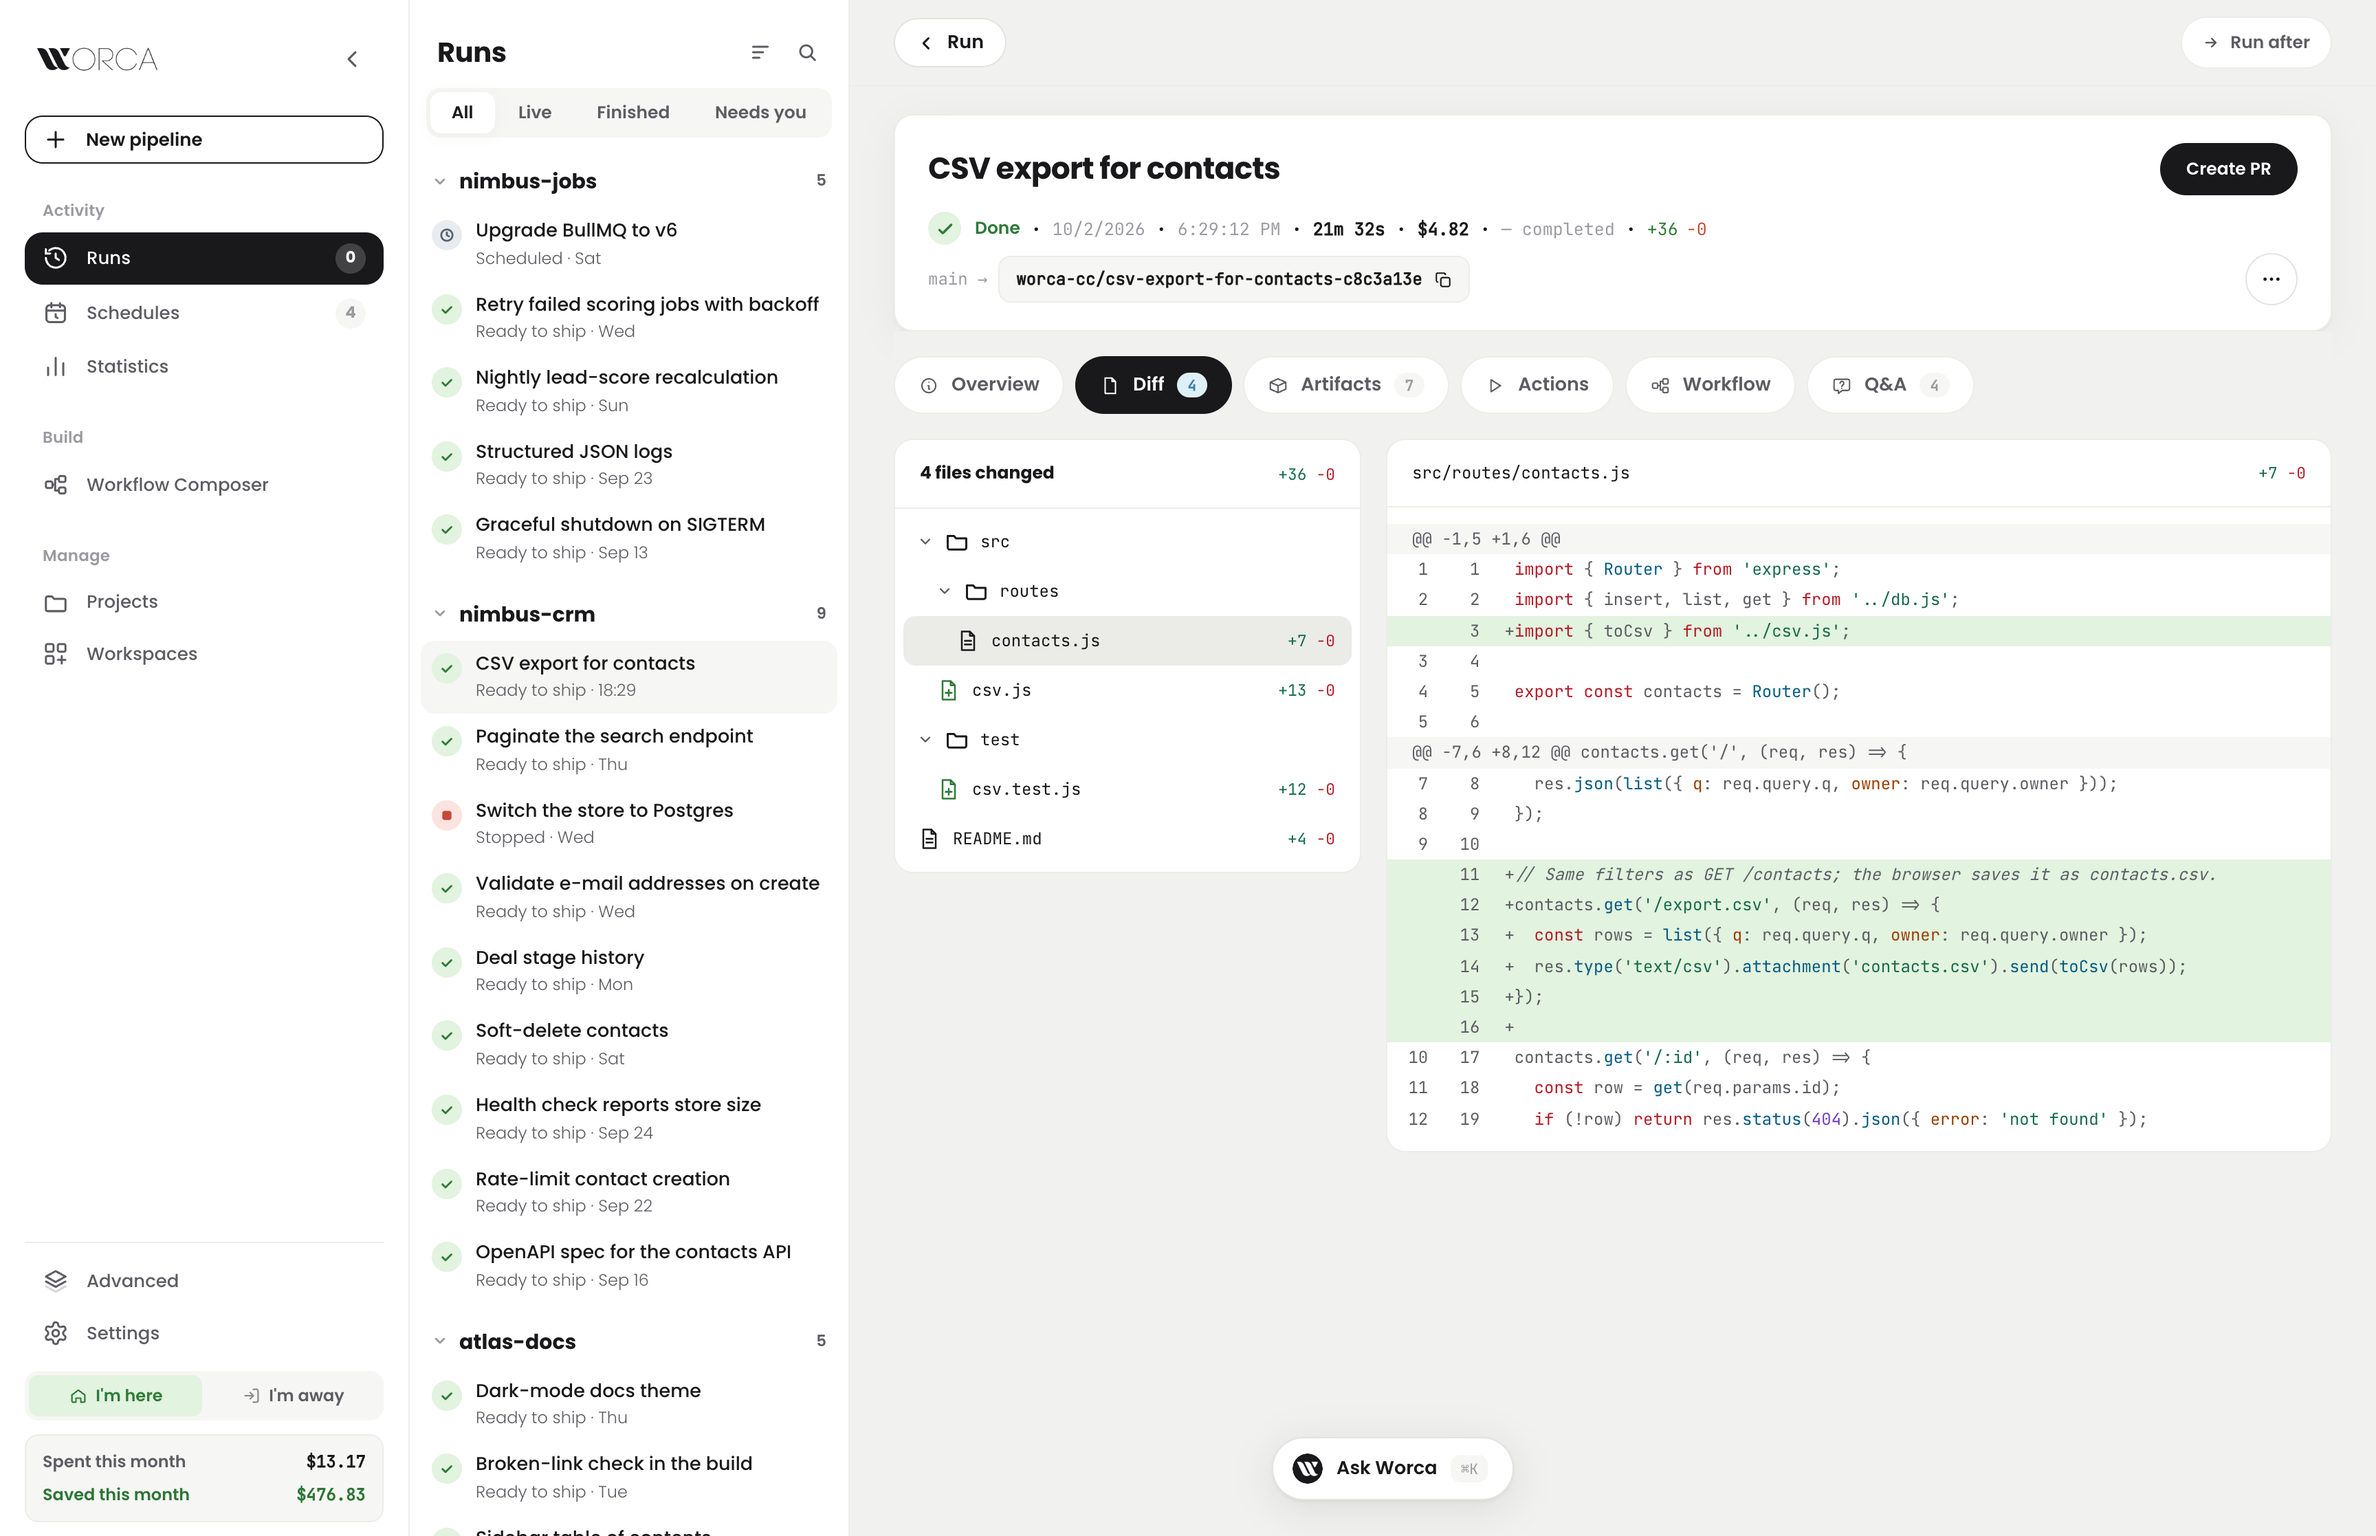
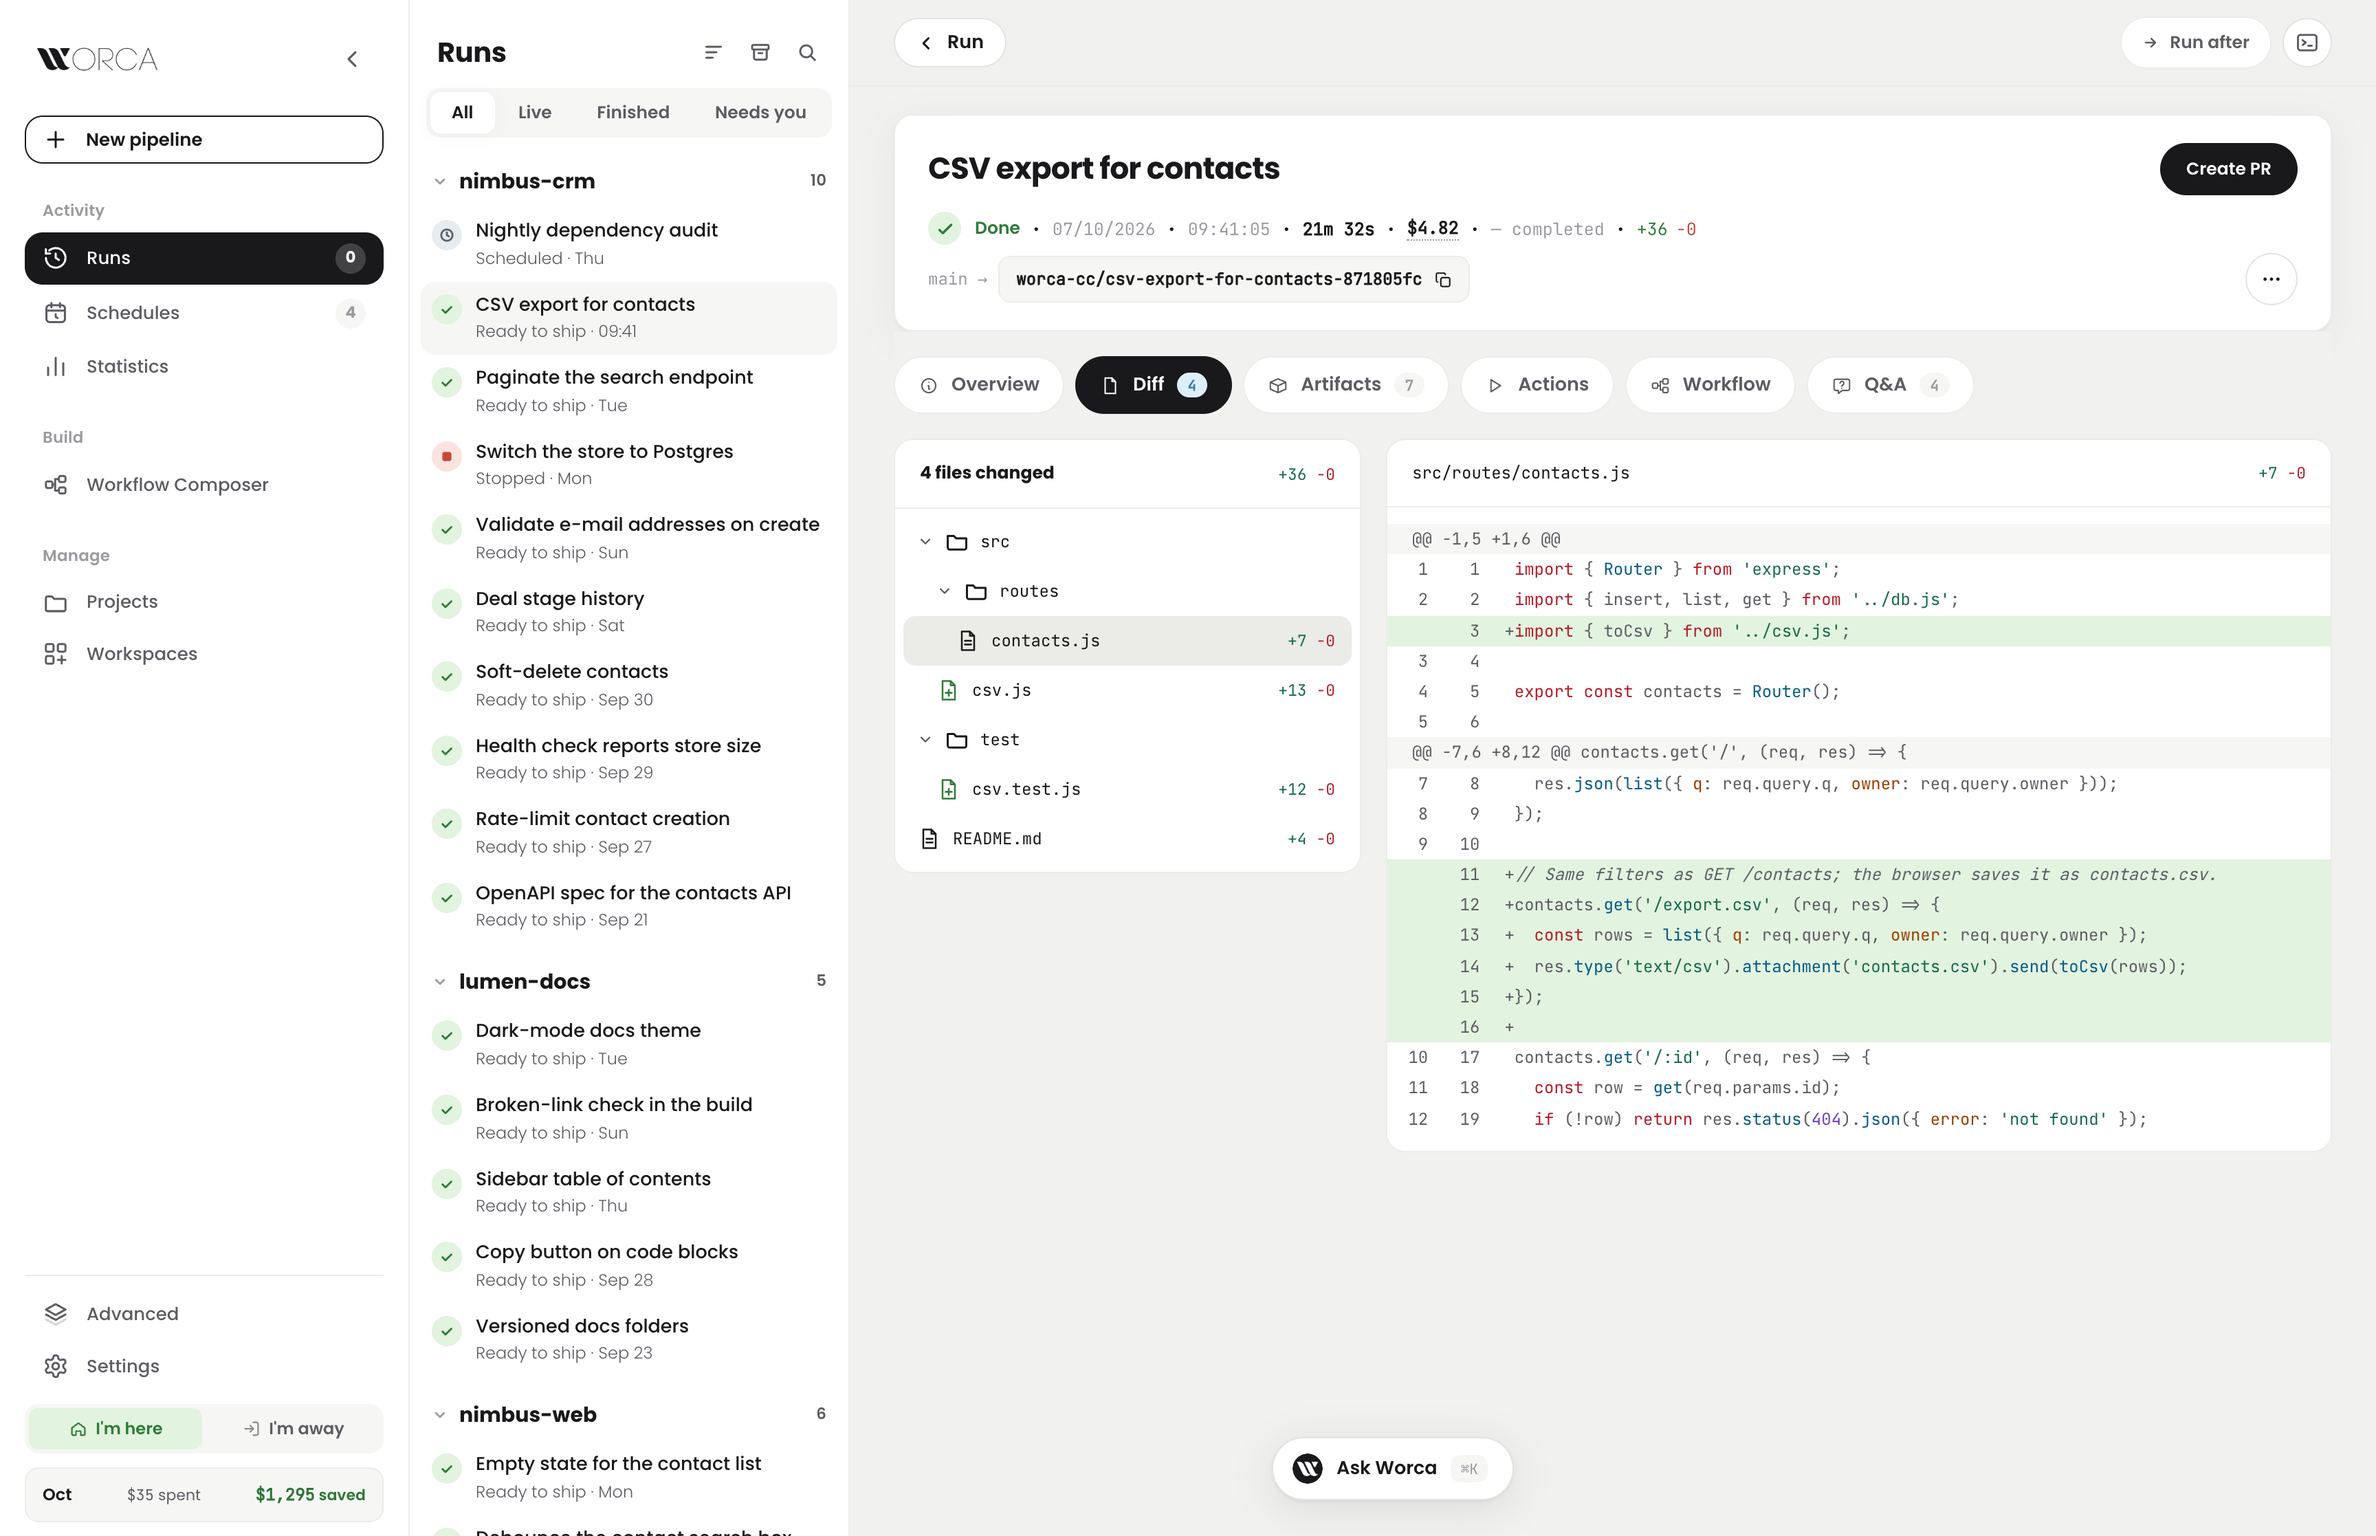
docs: rename the demo docs repo to lumen-docs and re-shoot the README screenshots

diff --git a/docs/ui-primitives/mockup.html b/docs/ui-primitives/mockup.html
@@ -655,7 +655,7 @@ h3{font-size:15px;font-weight:600;margin:0 0 4px;letter-spacing:-.01em;}
       <div class="surface">
         <div class="opt-list">
           <label class="opt-row"><input type="checkbox" checked /><span class="opt-name">worca-cc</span><span class="opt-sub">~/dev/worca-cc</span></label>
-          <label class="opt-row"><input type="checkbox" /><span class="opt-name">atlas-red</span><span class="opt-sub">~/dev/atlas-red</span></label>
+          <label class="opt-row"><input type="checkbox" /><span class="opt-name">lumen-docs</span><span class="opt-sub">~/dev/lumen-docs</span></label>
           <label class="opt-row"><input type="checkbox" disabled /><span class="opt-name">old-api</span><span class="badge red">missing</span></label>
         </div>
       </div>
@@ -704,7 +704,7 @@ h3{font-size:15px;font-weight:600;margin:0 0 4px;letter-spacing:-.01em;}
       <span class="hint" style="margin-bottom:14px">Project, workspace, workflow, branch, guardrails,
         the four log filters, budget period.</span>
       <div class="select-wrap"><select>
-        <option>worca-cc</option><option>atlas-red</option><option>opendeck</option>
+        <option>worca-cc</option><option>lumen-docs</option><option>opendeck</option>
       </select></div>
       <span class="hint">Unchanged. The popup is native and that is the right trade.</span>
     </div>

diff --git a/docs/changelog/worca-app-v1.6.0.src.html b/docs/changelog/worca-app-v1.6.0.src.html
@@ -392,7 +392,7 @@
         <div class="dlabel">Every run, newest first</div>
 <div class="term hl" id="termList"><span class="pr">$</span> worca runs
 <span class="dim">  ID        STATUS                STARTED  PROJECT     TITLE</span>
-<span class="row h">  c88a0c7e  <span class="w">paused (usage limit)</span>  40m ago  nimbus-crm  Rate-limit the contact form</span><span class="row">  7b3fde66  done                  1d ago   atlas-docs  Sitemap from git dates</span><span class="row">  a72fd3ac  done                  2d ago   nimbus-crm  CSV export for contacts</span></div>
+<span class="row h">  c88a0c7e  <span class="w">paused (usage limit)</span>  40m ago  nimbus-crm  Rate-limit the contact form</span><span class="row">  7b3fde66  done                  1d ago   lumen-docs  Sitemap from git dates</span><span class="row">  a72fd3ac  done                  2d ago   nimbus-crm  CSV export for contacts</span></div>
         <p class="env-note">A paused run shows why, right next to its status.</p>
       </div>
       <div class="demo rv d1">

diff --git a/README.md b/README.md
@@ -584,7 +584,7 @@ Every finished run keeps its full record, one tab each in **Runs**: **Overview**
   scheduled and finished runs from every project on the machine (see
   [Pipeline](#pipeline)). See [`docs/storage.md`](docs/storage.md).
 
-![Runs page — runs from nimbus-jobs, nimbus-crm and atlas-docs grouped by project, one scheduled and one stopped, with the finished run Paginate the search endpoint open: Ready to ship, 17m 2s, $3.65, 2 files changed](docs/screenshots/history.png)
+![Runs page — runs from nimbus-jobs, nimbus-crm and lumen-docs grouped by project, one scheduled and one stopped, with the finished run Paginate the search endpoint open: Ready to ship, 17m 2s, $3.65, 2 files changed](docs/screenshots/history.png)
 
 ### Getting started & UI levels
 

diff --git a/docs/screenshots.md b/docs/screenshots.md
@@ -50,7 +50,7 @@ cropping. Each shot uses the lowest interface mode that shows its view (see
 ## Seed
 
 - **Demo repos** under the sandbox, each with a few back-dated commits by four demo people
-  and a bare `origin`: `nimbus-crm` (a small Express contacts API), `atlas-docs` (a Markdown
+  and a bare `origin`: `nimbus-crm` (a small Express contacts API), `lumen-docs` (a Markdown
   site generator), `nimbus-web` (a Vue app on the CRM API) and `nimbus-jobs` (a queue worker).
 - **Finished runs.** 24 mock `wf_default` runs with realistic titles and prompts, answered at
   their clarify question (two stopped there instead). The mock blemishes are then fixed in the
